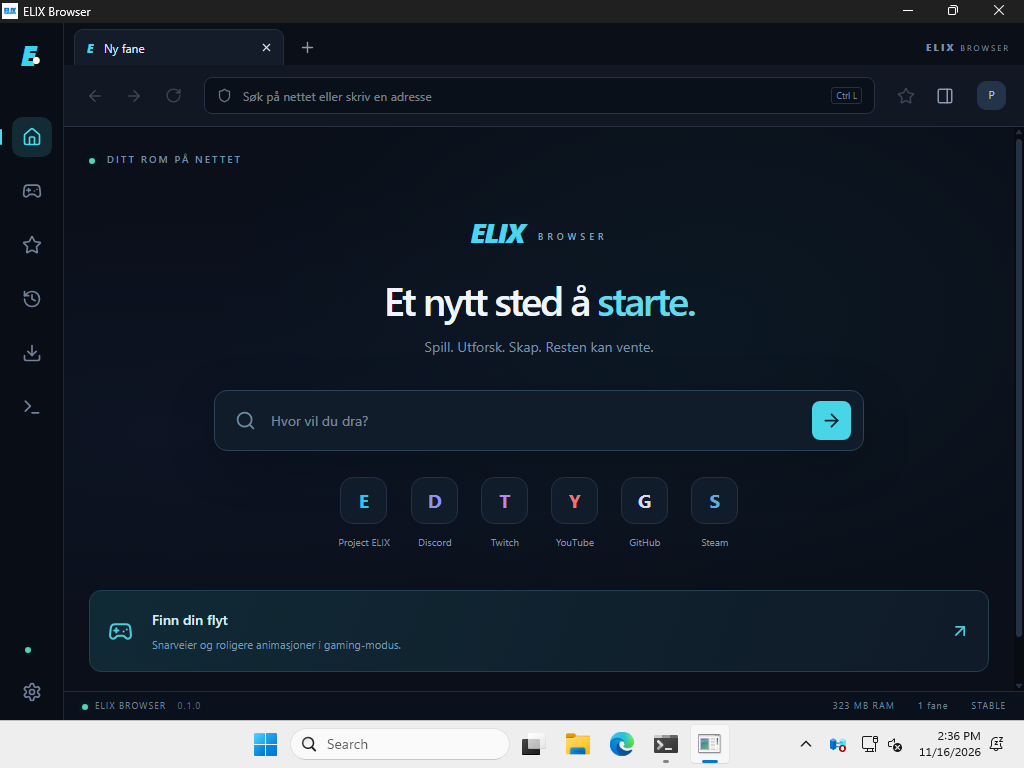
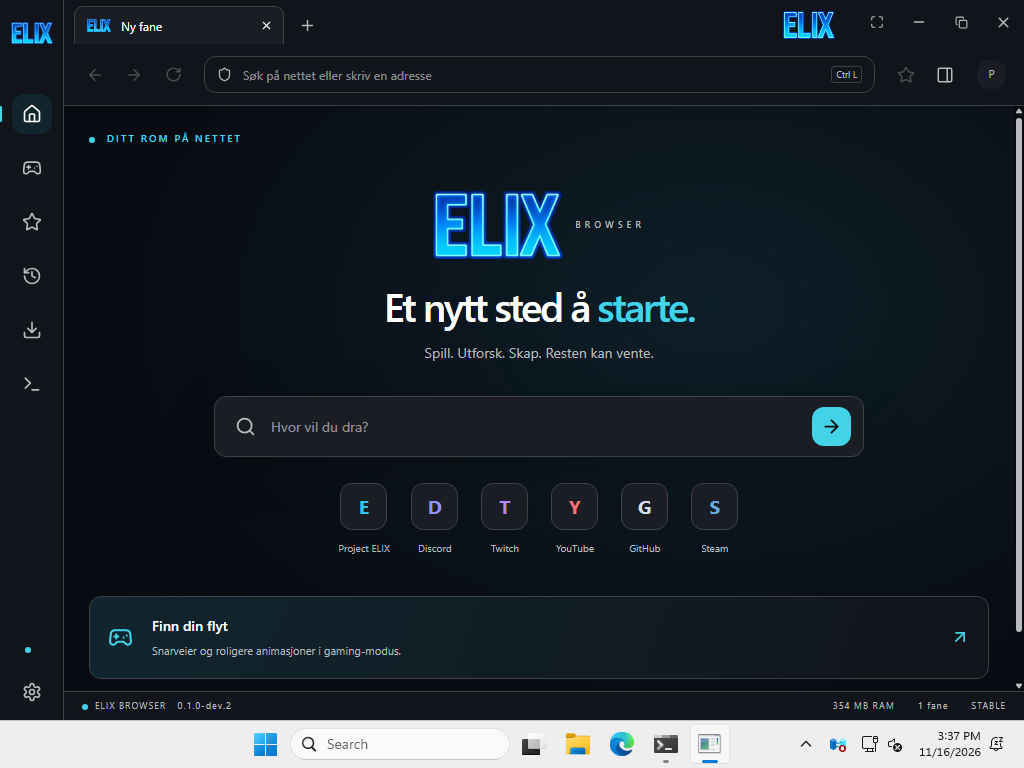
Publish verified Alpha 2 download and signed upgrade test evidence

diff --git a/website/index.html b/website/index.html
@@ -1,12 +1,12 @@
 <!doctype html><html lang="nb"><head><meta charset="utf-8"><meta name="viewport" content="width=device-width, initial-scale=1"><meta name="description" content="ELIX Browser: et minimalistisk Windows-prosjekt med gaming-design, Rust og ekte WebView2-utviklerverktøy."><title>ELIX Browser — Ditt rom på nettet</title><link rel="icon" type="image/png" href="elix-mark.png"><link rel="stylesheet" href="style.css"><script src="releases.js" type="module"></script></head><body>
-<header><a class="brand" href="#"><img src="elix-mark.png" alt="ELIX"><span>ELIX <small>BROWSER</small></span></a><nav aria-label="Hovedmeny"><a href="#opplevelsen">Opplevelsen</a><a href="#utvikler">For utviklere</a><a href="#utgivelser">Utgivelser</a><a class="nav-button" href="#last-ned">Windows ↓</a></nav></header>
-<main><section class="hero"><div class="eyebrow"><span class="dot"></span> BY PROJECT ELIX · WINDOWS</div><h1>Ditt rom.<br>Ditt tempo.<br><em>Din nettleser.</em></h1><p class="intro">Et rent skrivebord på nettet. ELIX samler surfing, gaming og utviklerverktøy i ett rolig, mørkt grensesnitt.</p><div class="hero-actions"><a class="primary" href="#last-ned">Prøv Alpha 1 <span>↗</span></a><a href="https://github.com/project-elix/elix-browser">Utforsk prosjektet →</a></div><p class="small" id="hero-status">Alpha 1 er tilgjengelig for Windows x64. Ingen egen server nødvendig.</p><div class="orbit" aria-hidden="true"><span><img src="elix-mark.png" alt="" class="orbit-logo"></span><i></i><b>ELIX / 01</b></div></section>
-<section class="product" id="opplevelsen"><div class="section-label"><span>01 / OPPLEVELSEN</span><span>MINDRE STØY. MER PLASS.</span></div><figure><img src="windows-start.png" alt="Skjermbilde av ELIX sitt faktiske grensesnitt med faner, søk og snarveier" width="1024" height="768"><figcaption>Ekte skjermbilde fra det installerte Windows-programmet i testmiljøet.</figcaption></figure><div class="feature-columns"><article><span>01</span><h2>En fane til.<br>Uten rotet.</h2><p>Adressefelt, navigasjon, bokmerker og historikk. Egne profiler holder cookies og nettleserdata adskilt.</p></article><article><span>02</span><h2>Plass til<br>neste økt.</h2><p>Gaming-dashboard med snarveier og en modus som reduserer animasjoner i ELIX. Valgfri dvale frigjør nettvisninger.</p></article><article><span>03</span><h2>Dine data.<br>På din maskin.</h2><p>Lokale bokmerker, historikk og innstillinger. Ingen automatisk opplasting av diagnostikk eller surfehistorikk.</p></article></div></section>
+<header><a class="brand" href="#"><img src="elix-mark.png" alt="ELIX"><span><small>BROWSER</small></span></a><nav aria-label="Hovedmeny"><a href="#opplevelsen">Opplevelsen</a><a href="#utvikler">For utviklere</a><a href="#utgivelser">Utgivelser</a><a class="nav-button" href="#last-ned">Windows ↓</a></nav></header>
+<main><section class="hero"><div class="eyebrow"><span class="dot"></span> BY PROJECT ELIX · WINDOWS</div><h1>Ditt rom.<br>Ditt tempo.<br><em>Din nettleser.</em></h1><p class="intro">Et rent skrivebord på nettet. ELIX samler surfing, gaming og utviklerverktøy i ett rolig, mørkt grensesnitt.</p><div class="hero-actions"><a class="primary" href="#last-ned">Prøv Alpha 2 <span>↗</span></a><a href="https://github.com/project-elix/elix-browser">Utforsk prosjektet →</a></div><p class="small" id="hero-status">Alpha 2 er tilgjengelig for Windows x64. Ingen egen server nødvendig.</p><div class="orbit" aria-hidden="true"><span><img src="elix-mark.png" alt="" class="orbit-logo"></span><i></i><b>ELIX / 01</b></div></section>
+<section class="product" id="opplevelsen"><div class="section-label"><span>01 / OPPLEVELSEN</span><span>MINDRE STØY. MER PLASS.</span></div><figure><img src="windows-start.png" alt="Skjermbilde av ELIX sitt faktiske grensesnitt med faner, søk og snarveier" width="1024" height="768"><figcaption>Ekte skjermbilde fra det installerte Windows-programmet i testmiljøet.</figcaption></figure><div class="feature-columns"><article><span>01</span><h2>En fane til.<br>Uten rotet.</h2><p>Adressefelt, navigasjon, bokmerker og historikk. Egne profiler holder cookies og nettleserdata adskilt.</p></article><article><span>02</span><h2>Plass til<br>neste økt.</h2><p>Gaming-dashboard, fem temaer og dine egne farger. Velg kompakt visning og færre animasjoner. Valgfri dvale frigjør nettvisninger.</p></article><article><span>03</span><h2>Dine data.<br>På din maskin.</h2><p>Lokale bokmerker, historikk og innstillinger. Ingen automatisk opplasting av diagnostikk eller surfehistorikk.</p></article></div></section>
 <section class="developer" id="utvikler"><div><div class="eyebrow">02 / ÅPNE PANSERET</div><h2>Verktøy for deg<br>som vil <em>forstå.</em></h2><p>Aktiver Developer Mode og åpne nettsidens egne WebView2 DevTools. Inspiser DOM og CSS, feilsøk JavaScript og følg nettverkstrafikken.</p><div class="keys"><kbd>F12</kbd><span>eller</span><kbd>Ctrl</kbd> + <kbd>Shift</kbd> + <kbd>I</kbd></div><p class="small">Tilgjengelig for alle som slår det på i innstillingene.</p></div><div class="terminal"><div class="terminal-top"><i></i><i></i><i></i><span>elix://developer</span></div><p><span class="cyan">↳</span> Ressursmålinger</p><ul><li>CPU og RAM for ELIX-prosessene</li><li>Minnehistorikk og prosessantall</li><li>WebView2- og systemversjoner</li><li>Hoveddokumentets HTTP-status</li><li>Lokale hendelses- og oppdateringslogger</li></ul><div class="terminal-note">Faktiske målinger.<br>Utilgjengelige verdier merkes tydelig.</div></div></section>
-<section class="download-section" id="last-ned"><div class="eyebrow">03 / WINDOWS</div><h2>Neste stopp: <em>ELIX.</em></h2><p id="download-intro">Test ELIX på din egen Windows-PC. Nettleseren kjører lokalt og trenger ingen ELIX-server.</p><div class="release-box" id="alpha"><div><span class="pill">ALPHA 1 · TESTVERSJON</span><h3>ELIX Browser Alpha 1</h3><p id="alpha-date">0.1.0-dev.1 · Utgitt 16. november 2026 · Windows x64</p></div><a id="alpha-download" class="primary" href="https://github.com/project-elix/elix-browser/releases/download/v0.1.0-dev.1/ELIX.Browser_0.1.0-dev.1_x64-setup.exe">Last ned Alpha 1 <span>↓</span></a></div><p class="small" id="alpha-status">Publisert og kontrollert. <a href="https://github.com/project-elix/elix-browser/releases/tag/v0.1.0-dev.1">Utgivelsesnotater og SHA-256 ↗</a></p><p class="small">Alpha-utgaven har ekte surfing og lokal lagring. Automatiske ELIX-oppdateringer er foreløpig deaktivert; nye versjoner installeres manuelt. Programmet er ikke Authenticode-signert, så Windows kan vise «ukjent utgiver» eller SmartScreen. Dette er en tidlig testversjon.</p><details><summary>Stabile utgivelser</summary><div class="release-box"><div><span class="pill" id="release-pill">UNDER UTVIKLING</span><h3 id="release-version">Ingen stabil utgivelse ennå</h3><p id="release-date">Nedlasting er ikke åpnet.</p></div><a id="download-button" class="primary disabled" aria-disabled="true">Last ned for Windows <span>↓</span></a></div><p class="small" id="release-status" role="status">Sjekker offisiell utgivelseskanal …</p></details><div class="requirements"><div><h3>Systemkrav</h3><p>Windows 11, 64-bit (x64). Microsoft Edge WebView2 Evergreen Runtime. Installasjonsprogrammet henter runtime ved behov. Nettforbindelse kreves for dette.</p><p class="small">ARM64, andre operativsystemer og maskinvareminimum er ikke kvalifisert i første versjon.</p></div><div><h3>Kom i gang</h3><ol><li>Last ned Alpha 1-installasjonsfilen med knappen over.</li><li>Kjør installasjonen for din Windows-bruker.</li><li>Åpne ELIX Browser og skriv inn en adresse.</li><li>Aktiver utviklermodus under Innstillinger hvis du ønsker DevTools.</li></ol></div></div></section>
-<section class="releases" id="utgivelser"><div class="section-label"><span>04 / UTGIVELSER</span><a href="https://github.com/project-elix/elix-browser/releases">Alle publiserte versjoner ↗</a></div><h2>Hva er nytt?</h2><pre id="release-notes">Alpha 1 · 0.1.0-dev.1 · 16. november 2026
+<section class="download-section" id="last-ned"><div class="eyebrow">03 / WINDOWS</div><h2>Neste stopp: <em>ELIX.</em></h2><p id="download-intro">Test ELIX på din egen Windows-PC. Nettleseren kjører lokalt og trenger ingen ELIX-server.</p><div class="release-box" id="alpha"><div><span class="pill">ALPHA 2 · TESTVERSJON</span><h3>ELIX Browser Alpha 2</h3><p id="alpha-date">0.1.0-dev.2 · Utgitt 16. november 2026 · Windows x64</p></div><a id="alpha-download" class="primary" href="https://github.com/project-elix/elix-browser/releases/download/v0.1.0-dev.2/ELIX.Browser_0.1.0-dev.2_x64-setup.exe">Last ned Alpha 2 <span>↓</span></a></div><p class="small" id="alpha-status">Publisert og kontrollert. <a href="https://github.com/project-elix/elix-browser/releases/tag/v0.1.0-dev.2">Utgivelsesnotater og SHA-256 ↗</a></p><p class="small">Alpha-utgaven har ekte surfing og lokal lagring. Automatiske ELIX-oppdateringer er foreløpig deaktivert; nye versjoner installeres manuelt. Programmet er ikke Authenticode-signert, så Windows kan vise «ukjent utgiver» eller SmartScreen. Dette er en tidlig testversjon.</p><details><summary>Stabile utgivelser</summary><div class="release-box"><div><span class="pill" id="release-pill">UNDER UTVIKLING</span><h3 id="release-version">Ingen stabil utgivelse ennå</h3><p id="release-date">Nedlasting er ikke åpnet.</p></div><a id="download-button" class="primary disabled" aria-disabled="true">Last ned for Windows <span>↓</span></a></div><p class="small" id="release-status" role="status">Sjekker offisiell utgivelseskanal …</p></details><div class="requirements"><div><h3>Systemkrav</h3><p>Windows 11, 64-bit (x64). Microsoft Edge WebView2 Evergreen Runtime. Installasjonsprogrammet henter runtime ved behov. Nettforbindelse kreves for dette.</p><p class="small">ARM64, andre operativsystemer og maskinvareminimum er ikke kvalifisert i første versjon.</p></div><div><h3>Kom i gang</h3><ol><li>Last ned Alpha 2-installasjonsfilen med knappen over.</li><li>Kjør installasjonen for din Windows-bruker.</li><li>Åpne ELIX Browser og skriv inn en adresse.</li><li>Aktiver utviklermodus under Innstillinger hvis du ønsker DevTools.</li></ol></div></div></section>
+<section class="releases" id="utgivelser"><div class="section-label"><span>04 / UTGIVELSER</span><a href="https://github.com/project-elix/elix-browser/releases">Alle publiserte versjoner ↗</a></div><h2>Hva er nytt?</h2><pre id="release-notes">Alpha 2 · 0.1.0-dev.2 · 16. november 2026
 
-Første offentlige Windows-testversjon: native faner og navigasjon, bokmerker, historikk, profiler, nedlastinger, gaming-startside og ekte DevTools.
+Ny ELIX-logo i hele nettleseren og Windows-ikonet. Egne knapper for minimering, maksimering, fullskjerm og lukking. Fem temaer, egne farger, kompakt visning og justerbare hjørner. Eksisterende surfing, profiler, bokmerker og DevTools følger med.
 
-Ingen egen server kreves. Automatiske ELIX-oppdateringer er deaktivert i alphaen. Stabil utgivelse kommer etter videre testing.</pre><details><summary>Stable, Beta eller Developer?</summary><p>Stable er for ordinære utgivelser. Beta gir tidlig tilgang og kan ha feil. Developer er eksperimentell. Alle offisielle oppdateringer må være digitalt signert. Et kanalbytte nedgraderer ikke en nyere installert versjon.</p></details><details><summary>Hva er ikke klart i første versjon?</summary><p>Utvidelser, privatmodus, passordbehandling, flere hovedvinduer, nettsidetillatelser for kamera og mikrofon, automatisk krasjinnsending og ressursmålinger per fane er ikke implementert. Dvale laster siden på nytt og kan miste ulagrede skjemaer. Full Windows-akseptansetest og oppdatering fra 0.1.0 til 0.1.1 må være fullført før stabil lansering.</p></details><details id="personvern"><summary>Personvern</summary><p>ELIX lagrer historikk, bokmerker, innstillinger og profildata lokalt. WebView2 lagrer blant annet cookies og nettsteddata i den valgte profilen. Nettsider du besøker, Google ved søk, Microsoft ved runtime-installasjon og GitHub ved oppdateringssjekk mottar nødvendige nettverksforespørsler, inkludert IP-adresse.</p><p>Ingen automatisk telemetri eller opplasting av historikk. Diagnostikk kan eksporteres lokalt etter samtykke og inneholder systemversjoner, ressursmålinger og faste hendelseskoder. Eksporten utelater URL-er, cookies, profilnavn og lokale stier. Du avgjør selv om filen skal deles.</p><p>Dette er produktets tekniske personverninformasjon under utvikling. Endelig informasjon om behandlingsansvarlig og kontaktpunkt må ferdigstilles før stabil lansering.</p></details><details><summary>Motor, ytelse og signering</summary><p>Rust håndterer applikasjonslogikk, lagring og systemintegrasjon. WebView2 står for nettsider og JavaScript. Rust i seg selv gjør ikke nettsider raskere enn Chromium. Vi publiserer ingen sammenligningstall før de er målt under like forhold.</p><p>Tauri-oppdateringssignaturer beskytter oppdateringspakken. De er noe annet enn Windows Authenticode. Windows kan vise en SmartScreen-advarsel for bygg uten etablert utgiversignatur.</p></details></section>
+Ingen egen server kreves. Automatiske ELIX-oppdateringer er deaktivert i alphaen. Stabil utgivelse kommer etter videre testing.</pre><details><summary>Stable, Beta eller Developer?</summary><p>Stable er for ordinære utgivelser. Beta gir tidlig tilgang og kan ha feil. Developer er eksperimentell. Alle offisielle oppdateringer må være digitalt signert. Et kanalbytte nedgraderer ikke en nyere installert versjon.</p></details><details><summary>Hva er ikke klart i første versjon?</summary><p>Utvidelser, privatmodus, passordbehandling, flere hovedvinduer, nettsidetillatelser for kamera og mikrofon, automatisk krasjinnsending og ressursmålinger per fane er ikke implementert. Dvale laster siden på nytt og kan miste ulagrede skjemaer. Den automatiserte, signerte oppgraderingen fra 0.1.0 til 0.1.1 er testet på Windows. Manuelle tester av skjermskalering, avbrudd og installasjonsgjenoppretting gjenstår før stabil lansering.</p></details><details id="personvern"><summary>Personvern</summary><p>ELIX lagrer historikk, bokmerker, innstillinger og profildata lokalt. WebView2 lagrer blant annet cookies og nettsteddata i den valgte profilen. Nettsider du besøker, Google ved søk, Microsoft ved runtime-installasjon og GitHub ved oppdateringssjekk mottar nødvendige nettverksforespørsler, inkludert IP-adresse.</p><p>Ingen automatisk telemetri eller opplasting av historikk. Diagnostikk kan eksporteres lokalt etter samtykke og inneholder systemversjoner, ressursmålinger og faste hendelseskoder. Eksporten utelater URL-er, cookies, profilnavn og lokale stier. Du avgjør selv om filen skal deles.</p><p>Dette er produktets tekniske personverninformasjon under utvikling. Endelig informasjon om behandlingsansvarlig og kontaktpunkt må ferdigstilles før stabil lansering.</p></details><details><summary>Motor, ytelse og signering</summary><p>Rust håndterer applikasjonslogikk, lagring og systemintegrasjon. WebView2 står for nettsider og JavaScript. Rust i seg selv gjør ikke nettsider raskere enn Chromium. Vi publiserer ingen sammenligningstall før de er målt under like forhold.</p><p>Tauri-oppdateringssignaturer beskytter oppdateringspakken. De er noe annet enn Windows Authenticode. Windows kan vise en SmartScreen-advarsel for bygg uten etablert utgiversignatur.</p></details></section>
 </main><footer><a class="wordmark" href="#"><img src="elix-mark.png" alt="ELIX"> <small>BROWSER</small></a><span>By Project ELIX</span><a href="#personvern">Personvern</a><a href="https://github.com/project-elix/elix-browser">GitHub ↗</a></footer></body></html>

diff --git a/docs/VALIDATION.md b/docs/VALIDATION.md
@@ -3,8 +3,8 @@
 ## Executed in the build workspace
 
 - Production React/TypeScript/Vite build: passed.
-- Vitest release-channel/input/progress tests: 8 passed.
-- Actual Rust storage and URL-security modules, headless Linux harness: 4 passed.
+- Vitest release-channel/input/progress and theme contrast tests: 11 passed.
+- Actual Rust storage and URL-security modules, headless Linux harness: 6 passed (including Alpha 1 preference compatibility and theme persistence).
 - Windows GNU target type-check (Tauri, WebView2 COM hooks, updater, SQLite): passed using x86_64-pc-windows-gnu. This checks Windows-only COM calls; it does not run Windows.
 - Start-page visual inspection: passed in Chromium frontend preview. This validates layout, not WebView2 behavior. The public page now uses an actual Windows CI desktop capture, explicitly labeled.
 
@@ -58,4 +58,14 @@ Alpha 1 uses the native verification workflow and then builds a separate install
 
 The native download lifetime regression was reproduced on Windows and fixed by retaining each COM download operation until its terminal state. Run [43886856083](https://github.com/project-elix/elix-browser/actions/runs/43886856083) passed the expanded native test, including interrupted download status, remote IPC denial and active-session restoration. The assertion was retained; navigation errors are not substituted for download state.
 
-Alpha 1 (`0.1.0-dev.1`) was built without test features, silently installed, launched successfully and published by the same run on 2026-11-16. The public installer download was independently hashed and matched the CI checksum and GitHub asset digest. Automatic ELIX updates remain disabled; the signed 0.1.0 → 0.1.1 round trip is **not yet qualified**.
+Alpha 1 (`0.1.0-dev.1`) was built without test features, silently installed, launched successfully and published by the same run on 2026-11-16. The public installer download was independently hashed and matched the CI checksum and GitHub asset digest. Automatic ELIX updates remain disabled; at that time the signed round trip was not yet qualified (subsequent result below).
+
+## Alpha 2 verification — 2026-11-16
+
+- Run [43897753259](https://github.com/project-elix/elix-browser/actions/runs/43897753259) passed the new native minimize/maximize/restore/fullscreen/close path alongside existing real browsing, DevTools, download, profile and IPC tests. Its desktop capture shows the supplied ELIX logo and visible window buttons.
+- Run [43897753542](https://github.com/project-elix/elix-browser/actions/runs/43897753542) **passed the actual signed 0.1.0 → 0.1.1 round trip**: installed old NSIS package, production check/download/signature verification/install, automatic restart into the new executable, preserved two profiles, bookmarks, history, preferences, persistent WebView2 cookies and profile files. Corrupted bytes and a correctly signed old installer replayed as a newer version were rejected.
+- The first attempted test hung at the interactive CurrentUser root-certificate trust dialog. The corrected fixture uses the LocalMachine root store on its disposable hosted Windows runner and removes the ephemeral certificate afterward. TLS verification remains enabled. No test certificate or test signing key is used in distributed alpha builds.
+- The automatic round trip qualifies the tested path, not the whole manual acceptance matrix. Third-party logins, UI interaction, high-DPI visuals, installer interruption/cancellation and power loss still need manual acceptance.
+- Permanent production signing credentials and a Windows Authenticode publisher certificate are not configured. Passing a disposable-key test does not activate a public updater channel.
+
+Alpha 2 publication run [43897911998](https://github.com/project-elix/elix-browser/actions/runs/43897911998) passed native verification, built the distributable without test features, silently installed/launched it, and published `0.1.0-dev.2`. Public bytes were independently hashed and matched both CI and GitHub digests.

diff --git a/docs/ALPHA-2.md b/docs/ALPHA-2.md
@@ -1,0 +1,32 @@
+# ELIX Browser Alpha 2 — 0.1.0-dev.2
+
+## New in Alpha 2
+
+- The supplied transparent ELIX logo replaces the old image in the sidebar, start page, internal tabs, title bar, settings, website, favicon and Windows application/installer icons. The original proportions are retained.
+- Native minimize, maximize/restore, fullscreen and close buttons. F11 toggles fullscreen and Escape leaves it, including while a page WebView has keyboard focus. Closing persists the tab session.
+- Five presets: ELIX Midnight, Obsidian, Frost, Forest and Ember. Custom accent and background colors, compact/comfortable spacing, 0–20 px corner radius, start-page gradients and reduced motion.
+- Appearance changes preview immediately, save locally, or can be cancelled/reset. Existing Alpha 1 settings deserialize with appearance defaults while retaining the existing preferences.
+
+## Distribution and signing
+
+This alpha uses manual installation. Permanent updater signing credentials are not configured yet, and the binary therefore cannot accept an unsigned automatic update. The protected production release workflow remains gated by native Windows checks and a signed upgrade round trip.
+
+Tauri updater signatures and Windows Authenticode publisher certificates are different. This alpha has no Authenticode publisher certificate. Installing it does not require a personal ELIX server.
+
+## Useful checks on your Windows PC
+
+1. Install over Alpha 1 without uninstalling or deleting its application data. Check bookmarks, history and profile logins.
+2. Minimize and restore from the taskbar, maximize/restore, enter fullscreen with the button and F11, leave with Escape, then close and reopen.
+3. Repeat F11/Escape while a website has focus. Resize and check that page content stays below the toolbar.
+4. Open Settings, select Frost and then a dark preset; choose custom colors. Preview, cancel, save, restart and verify persistence.
+5. Try compact spacing and reduced motion. Test 100%, 125%, 150% and 200% Windows scaling; high-DPI visual qualification remains manual.
+
+## Published artifact
+
+Published 2026-11-16 after native Windows verification and a separate installed launch of the distributable without test features.
+
+https://github.com/project-elix/elix-browser/releases/download/v0.1.0-dev.2/ELIX.Browser_0.1.0-dev.2_x64-setup.exe
+
[1 lines of base64/hex data omitted]
+
+The public bytes were independently downloaded and matched the CI checksum and GitHub asset digest.

diff --git a/README.md b/README.md
@@ -6,11 +6,11 @@ Windows desktop browser with a Rust backend, Tauri 2, WebView2, React/TypeScript
 
 Product site: https://elix-browser-download.andreasdan04.chatgpt.site
 
-**Version 0.1.0 is a development implementation, not a qualified stable release.** This repository contains real native browser integration, not an iframe browser. See [validation status](docs/VALIDATION.md) and [limitations](docs/LIMITATIONS.md) before distribution.
+**Version 0.1.0-dev.2 is a development implementation, not a qualified stable release.** This repository contains real native browser integration, not an iframe browser. See [validation status](docs/VALIDATION.md) and [limitations](docs/LIMITATIONS.md) before distribution.
 
 ## Alpha test for Windows
 
-**[Download Alpha 1 for Windows x64](https://github.com/project-elix/elix-browser/releases/download/v0.1.0-dev.1/ELIX.Browser_0.1.0-dev.1_x64-setup.exe)** — version 0.1.0-dev.1, published 16 November 2026 after Windows verification and a separate installed-launch check. It needs no personal server. Automatic ELIX updates are disabled and the installer is not Authenticode-signed. See [alpha installation and testing](docs/ALPHA.md) and the actual [published releases](https://github.com/project-elix/elix-browser/releases); do not use the source ZIP as an installer.
+**[Download Alpha 2 for Windows x64](https://github.com/project-elix/elix-browser/releases/download/v0.1.0-dev.2/ELIX.Browser_0.1.0-dev.2_x64-setup.exe)** — version 0.1.0-dev.2, published 16 November 2026 after Windows verification and a separate installed-launch check. It needs no personal server. Automatic ELIX updates are disabled and the installer is not Authenticode-signed. See [alpha installation and testing](docs/ALPHA-2.md) and the actual [published releases](https://github.com/project-elix/elix-browser/releases); do not use the source ZIP as an installer.
 
 ## Run on Windows
 

diff --git a/docs/ALPHA.md b/docs/ALPHA.md
@@ -1,5 +1,7 @@
 # Test ELIX Browser Alpha 1
 
+**Historical release. For the current alpha see [Alpha 2](ALPHA-2.md).**
+
 Alpha 1 is version **0.1.0-dev.1**, distributed as a public GitHub prerelease. It is a Windows desktop application and does **not** require your own server.
 
 ## Install
